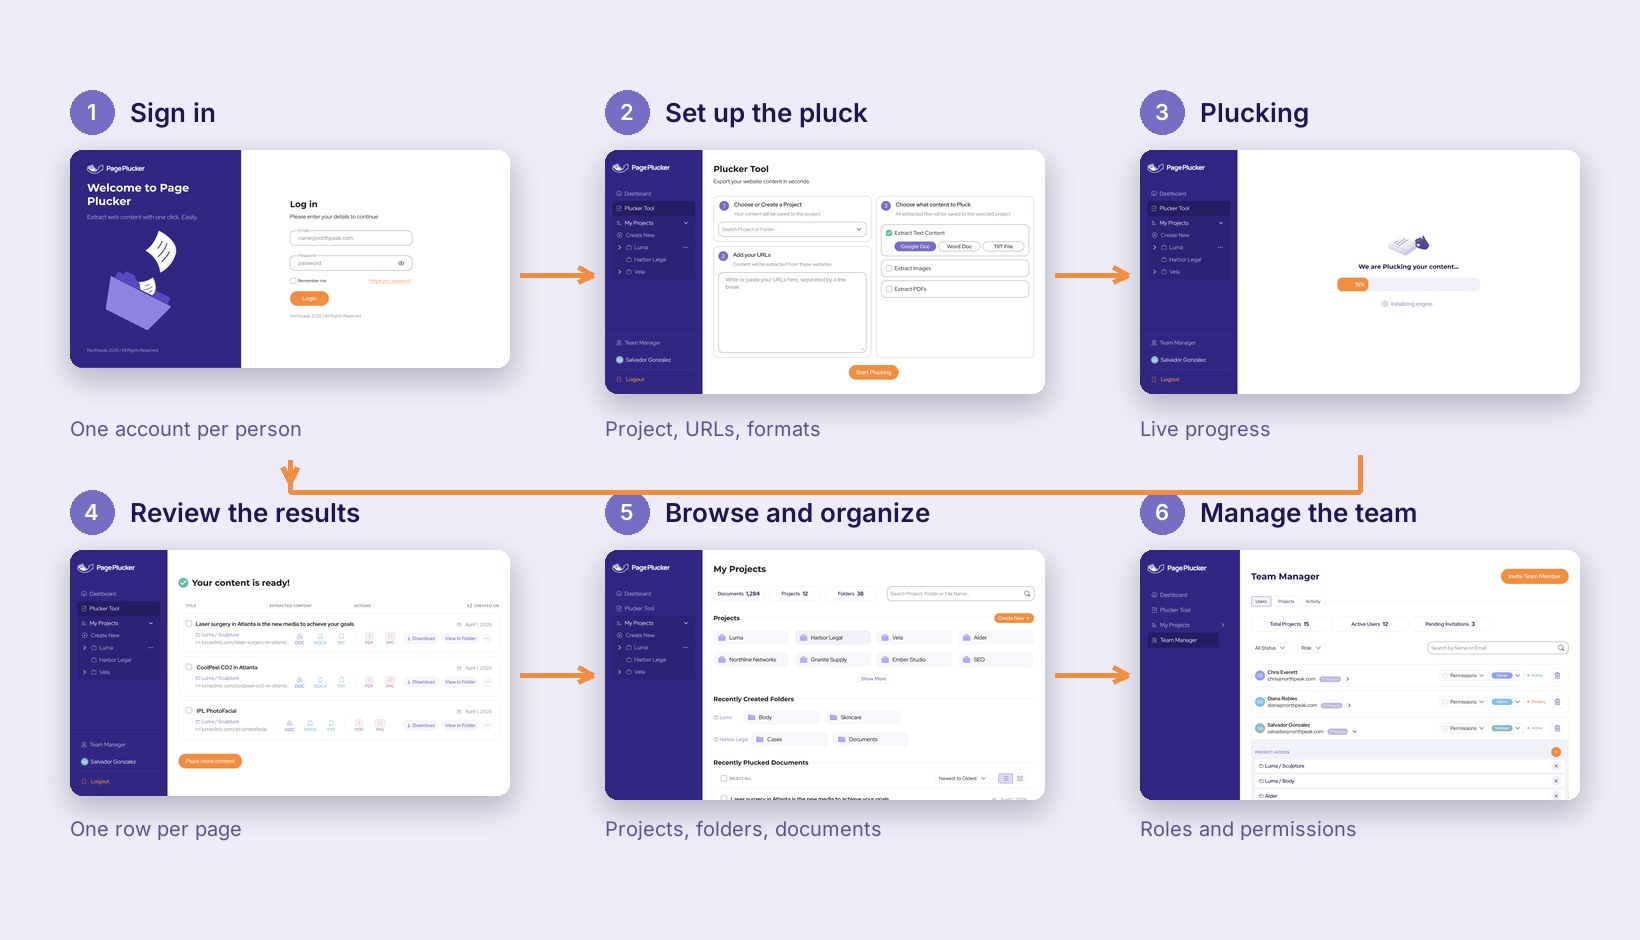
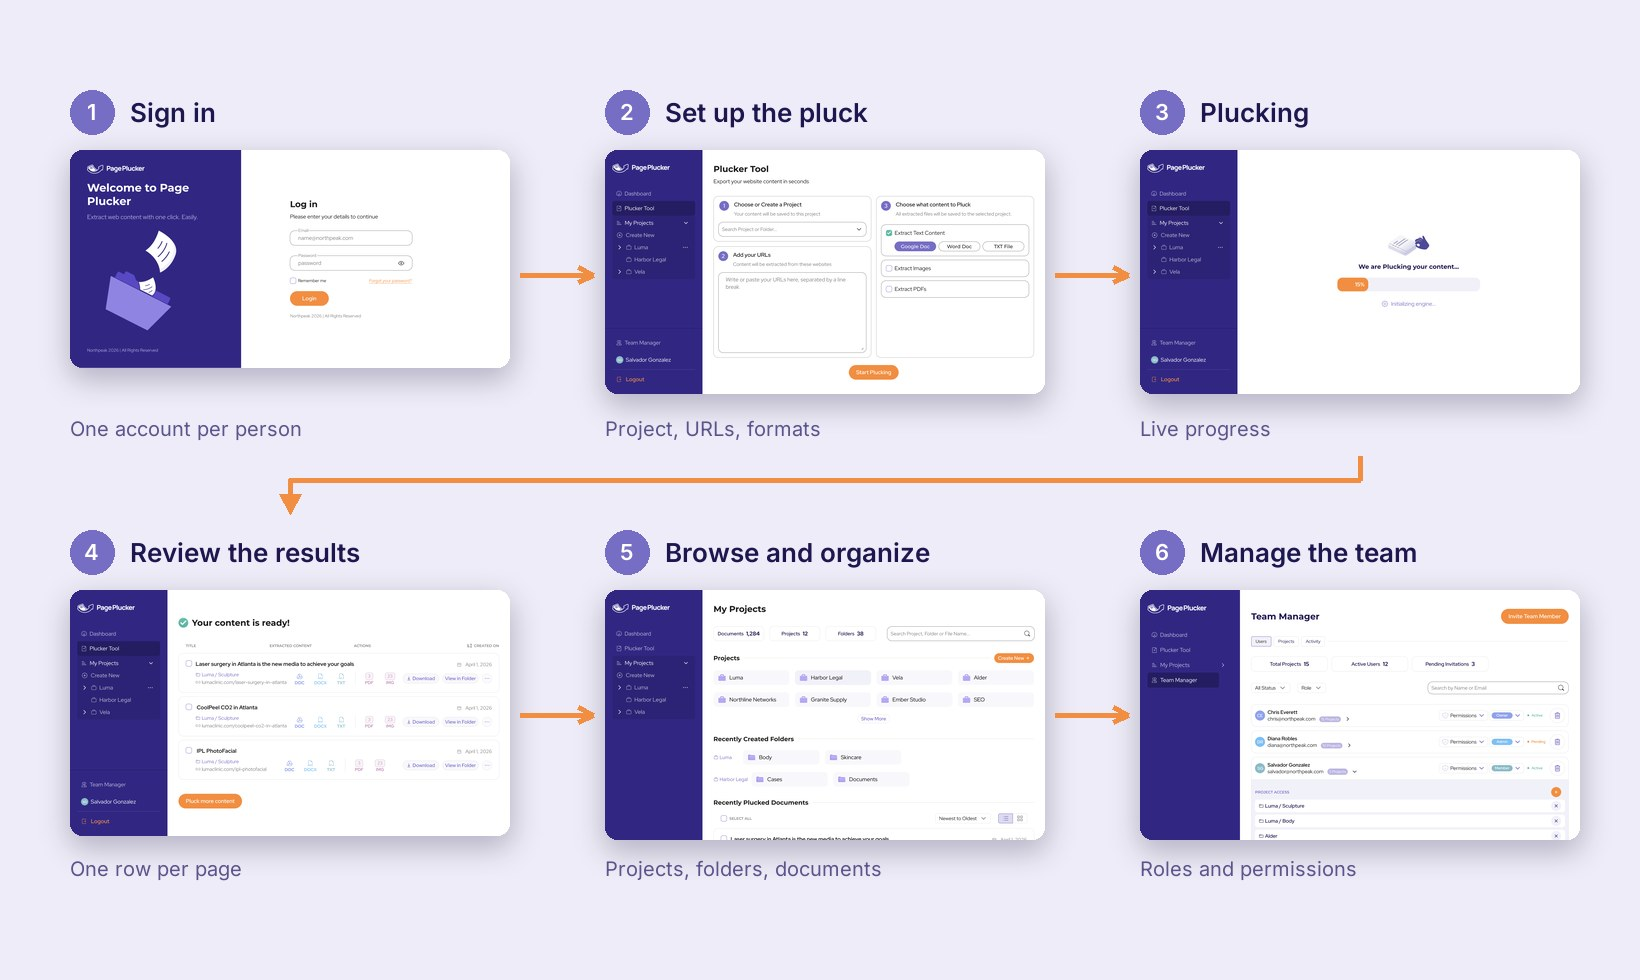
Page Plucker flow diagram: fix the step 3 to 4 connector arrow

diff --git a/index.html b/index.html
@@ -14,10 +14,10 @@
 <link rel="preconnect" href="https://fonts.gstatic.com" crossorigin>
 <link href="https://fonts.googleapis.com/css2?family=Inter:wght@400;500;600;700;800&display=swap" rel="stylesheet">
 
-<link rel="stylesheet" href="css/style.css?v=20261149">
-<link rel="stylesheet" href="css/home.css?v=20261149">
-<link rel="stylesheet" href="css/hero-lab.css?v=20261149">
-<script src="js/page-wipe.js?v=20261149"></script>
+<link rel="stylesheet" href="css/style.css?v=20261150">
+<link rel="stylesheet" href="css/home.css?v=20261150">
+<link rel="stylesheet" href="css/hero-lab.css?v=20261150">
+<script src="js/page-wipe.js?v=20261150"></script>
 </head>
 <body data-page="work">
 
@@ -133,15 +133,15 @@
 <!-- InertiaPlugin was only used by the dot-grid background below; re-enable
      it alongside the dot-grid script tag if that background comes back. -->
 <!-- <script src="https://cdn.jsdelivr.net/npm/gsap@3.13.0/dist/InertiaPlugin.min.js"></script> -->
-<script src="js/main.js?v=20261149"></script>
-<script src="js/cursor.js?v=20261149"></script>
-<!-- <script src="js/dot-grid.js?v=20261149"></script> -->
-<script src="js/cursor-trail.js?v=20261149"></script>
-<script src="js/text-type.js?v=20261149"></script>
-<script src="js/accordion-gallery.js?v=20261149"></script>
-<script src="js/projects-data.js?v=20261149"></script>
-<script src="js/home.js?v=20261149"></script>
-<script src="js/tech-text.js?v=20261149"></script>
-<script src="js/hero-lab.js?v=20261149"></script>
+<script src="js/main.js?v=20261150"></script>
+<script src="js/cursor.js?v=20261150"></script>
+<!-- <script src="js/dot-grid.js?v=20261150"></script> -->
+<script src="js/cursor-trail.js?v=20261150"></script>
+<script src="js/text-type.js?v=20261150"></script>
+<script src="js/accordion-gallery.js?v=20261150"></script>
+<script src="js/projects-data.js?v=20261150"></script>
+<script src="js/home.js?v=20261150"></script>
+<script src="js/tech-text.js?v=20261150"></script>
+<script src="js/hero-lab.js?v=20261150"></script>
 </body>
 </html>

diff --git a/project.html b/project.html
@@ -14,9 +14,9 @@
 <link rel="preconnect" href="https://fonts.gstatic.com" crossorigin>
 <link href="https://fonts.googleapis.com/css2?family=Inter:wght@400;500;600;700;800&display=swap" rel="stylesheet">
 
-<link rel="stylesheet" href="css/style.css?v=20261149">
-<link rel="stylesheet" href="css/project.css?v=20261149">
-<script src="js/page-wipe.js?v=20261149"></script>
+<link rel="stylesheet" href="css/style.css?v=20261150">
+<link rel="stylesheet" href="css/project.css?v=20261150">
+<script src="js/page-wipe.js?v=20261150"></script>
 </head>
 <body>
 
@@ -70,9 +70,9 @@
   </div>
 </footer>
 
-<script src="js/main.js?v=20261149"></script>
-<script src="js/cursor.js?v=20261149"></script>
-<script src="js/projects-data.js?v=20261149"></script>
-<script src="js/project-page.js?v=20261149"></script>
+<script src="js/main.js?v=20261150"></script>
+<script src="js/cursor.js?v=20261150"></script>
+<script src="js/projects-data.js?v=20261150"></script>
+<script src="js/project-page.js?v=20261150"></script>
 </body>
 </html>

diff --git a/hero-lab.html b/hero-lab.html
@@ -15,8 +15,8 @@
 <link rel="preconnect" href="https://fonts.gstatic.com" crossorigin>
 <link href="https://fonts.googleapis.com/css2?family=Inter:wght@400;500;600;700;800&display=swap" rel="stylesheet">
 
-<link rel="stylesheet" href="css/style.css?v=20261149">
-<link rel="stylesheet" href="css/hero-lab.css?v=20261149">
+<link rel="stylesheet" href="css/style.css?v=20261150">
+<link rel="stylesheet" href="css/hero-lab.css?v=20261150">
 </head>
 <body data-page="lab">
 
@@ -71,9 +71,9 @@
   </section>
 </main>
 
-<script src="js/main.js?v=20261149"></script>
-<script src="js/cursor.js?v=20261149"></script>
-<script src="js/tech-text.js?v=20261149"></script>
-<script src="js/hero-lab.js?v=20261149"></script>
+<script src="js/main.js?v=20261150"></script>
+<script src="js/cursor.js?v=20261150"></script>
+<script src="js/tech-text.js?v=20261150"></script>
+<script src="js/hero-lab.js?v=20261150"></script>
 </body>
 </html>

diff --git a/about.html b/about.html
@@ -14,9 +14,9 @@
 <link rel="preconnect" href="https://fonts.gstatic.com" crossorigin>
 <link href="https://fonts.googleapis.com/css2?family=Inter:wght@400;500;600;700;800&display=swap" rel="stylesheet">
 
-<link rel="stylesheet" href="css/style.css?v=20261149">
-<link rel="stylesheet" href="css/about.css?v=20261149">
-<script src="js/page-wipe.js?v=20261149"></script>
+<link rel="stylesheet" href="css/style.css?v=20261150">
+<link rel="stylesheet" href="css/about.css?v=20261150">
+<script src="js/page-wipe.js?v=20261150"></script>
 </head>
 <body data-page="about">
 
@@ -169,7 +169,7 @@
   </div>
 </footer>
 
-<script src="js/main.js?v=20261149"></script>
-<script src="js/cursor.js?v=20261149"></script>
+<script src="js/main.js?v=20261150"></script>
+<script src="js/cursor.js?v=20261150"></script>
 </body>
 </html>

diff --git a/js/projects-data.js b/js/projects-data.js
@@ -347,7 +347,7 @@ const PROJECTS = [
             text: "Before drawing any screen I mapped the flow with the stakeholders: sign in, set up the extraction, watch it run, review the results, and browse and organize them later. Team management sits apart, for the people who run the workspace.",
             stack: true,
             images: [
-              { src: "assets/images/pageplucker-flow.jpg" }
+              { src: "assets/images/pageplucker-flow.jpg?v=2" }
             ]
           },
           {
